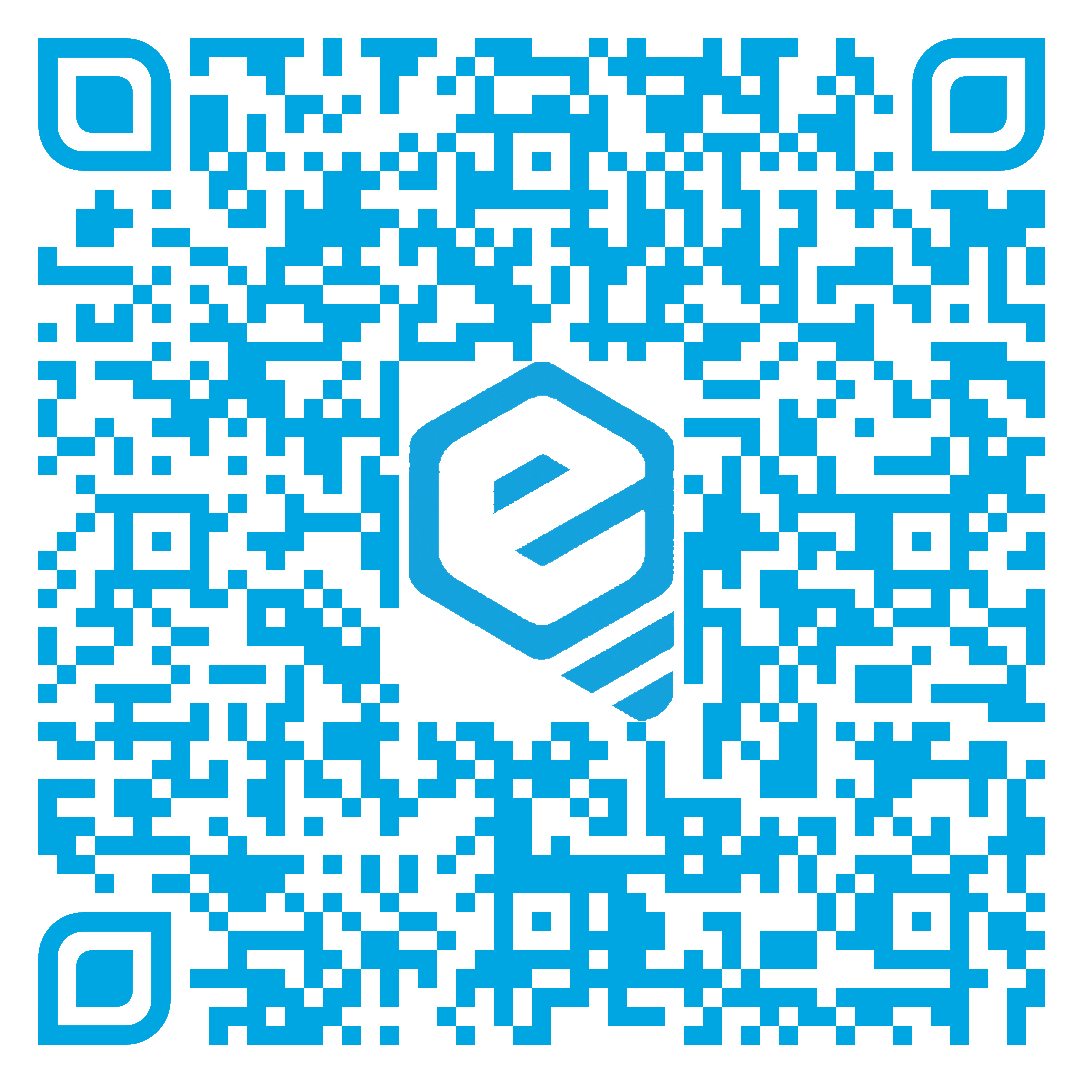
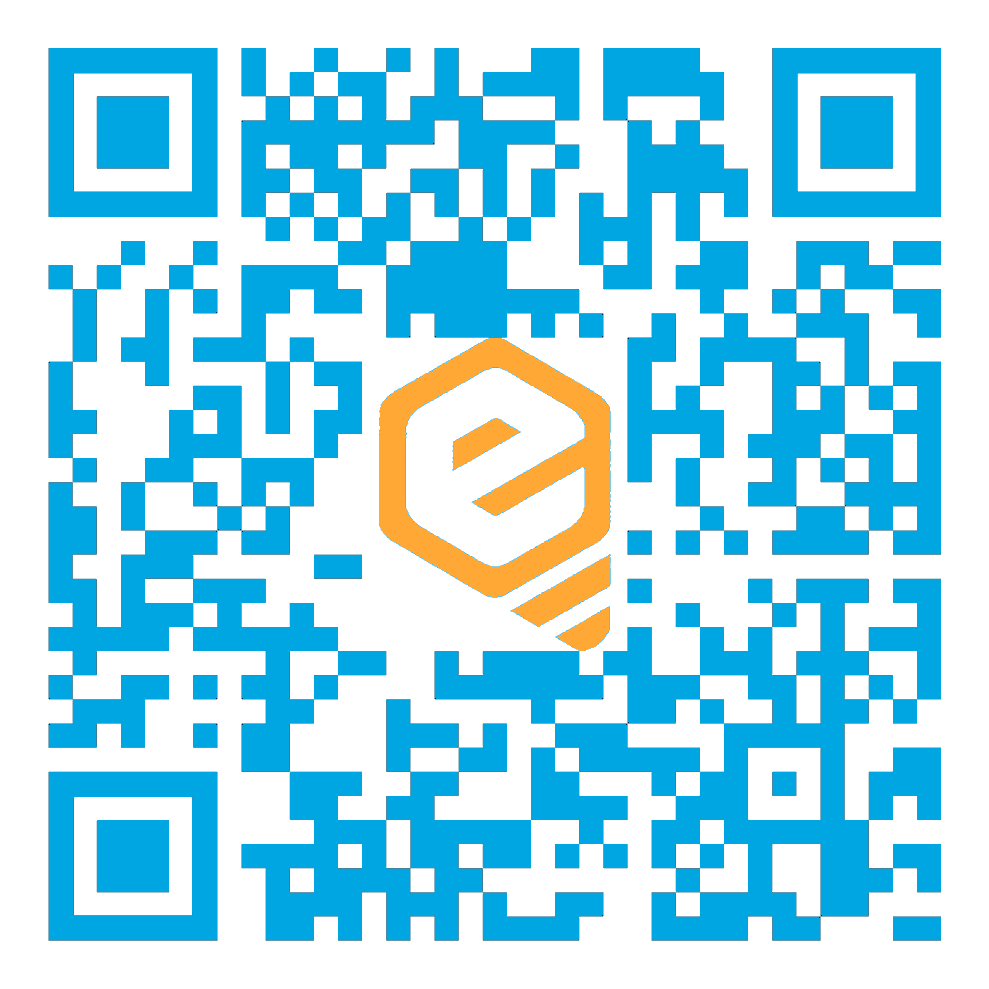
Flyer and register form updates

diff --git a/app/startupsprint/page.js b/app/startupsprint/page.js
@@ -27,7 +27,19 @@ function StartupSprint2023() {
             Check on this page regularly for updates and new information.</div>
   
           <div className="shadow-lg border rounded-lg p-6 mb-10 lg:grid lg:grid-cols-2 ">
-              <div className="lg:w-1/2">
+            
+              <div className="lg:mx-auto">
+                  <h2 className='text-3xl font-semibold'> ✅ Register</h2>
+                  <CountdownTimer></CountdownTimer>
+                  <div className='mt-4 text-xl text-error'>Note: If you have a team, ALL members should register.</div>
+                  <Image className='lg:w-1/2' src={applicationQR}></Image>
+                  <Link className="btn btn-secondary btn-block mt-10 lg:w-1/2" target={'_blank'} href='https://forms.gle/82jP5SR23r8Aze3p8' >
+                    <BsLink45Deg className='text-2xl'></BsLink45Deg>
+                    Register
+                  </Link>
+              </div>
+
+              <div className="lg:w-1/2 mt-10 lg:mt-0">
                   <h2 className="text-3xl font-semibold mb-2">📅  Event Dates</h2>
                   <br />
                   
@@ -46,18 +58,8 @@ function StartupSprint2023() {
                   <h3 className="text-2xl font-semibold text-secondary">Final Pitch Day:</h3>
                   <p className='text-xl'>Wednesday November 15th at the Apex Center</p>
                   <br />
+              </div>
 
-              </div>
-              <div className=" lg:mx-auto lg:float-right">
-                  <h2 className='text-3xl font-semibold'> ✅ Register</h2>
-                  <CountdownTimer></CountdownTimer>
-                  <div className='mt-4 text-xl text-error'>Note: If you have a team, ALL members should register.</div>
-                  <Image className='lg:w-1/2' src={applicationQR}></Image>
-                  <Link className="btn btn-secondary btn-block mt-10 lg:w-1/2" target={'_blank'} href='https://vt.startuptree.co/event/s/T8LLpTq56zfhzJAfPKxJRA/Startup-Sprint-2023-Registration' >
-                    <BsLink45Deg className='text-2xl'></BsLink45Deg>
-                    Register
-                  </Link>
-              </div>
            </div>
 
           <div className="flex flex-wrap">

diff --git a/app/startupsprint/CountdownTimer.jsx b/app/startupsprint/CountdownTimer.jsx
@@ -32,12 +32,12 @@ const CountdownTimer = () => {
   }, []);
 
   return (
-    <div className='alert lg:w-3/4 mt-4'>
+    <div className='bg-base-200 rounded-lg p-4 lg:w-3/4 mt-4 border'>
       <span className='text-xl text-error font-bold'>{timeLeft.days} days </span>
       <span className='text-xl text-error font-bold'>{timeLeft.hours} hours </span>
       <span className='text-xl text-error font-bold'>{timeLeft.minutes} minutes </span>
       <span className='text-xl text-error font-bold'>{timeLeft.seconds} seconds </span>
-      <span className='text-xl font-bold'>left to apply</span>
+      <span className='text-xl font-bold'>  left to apply</span>
     </div>
   );
 };

diff --git a/app/events/page.js b/app/events/page.js
@@ -1,4 +1,4 @@
-import startup_sprint_flyer from './startup_sprint.png'
+import startup_sprint_flyer from './startup_sprint.jpg'
 import meet_the_founders from './meet_founders.jpg'
 import women_in_eship from './women_in_eship.png'
 import Image from 'next/image'
